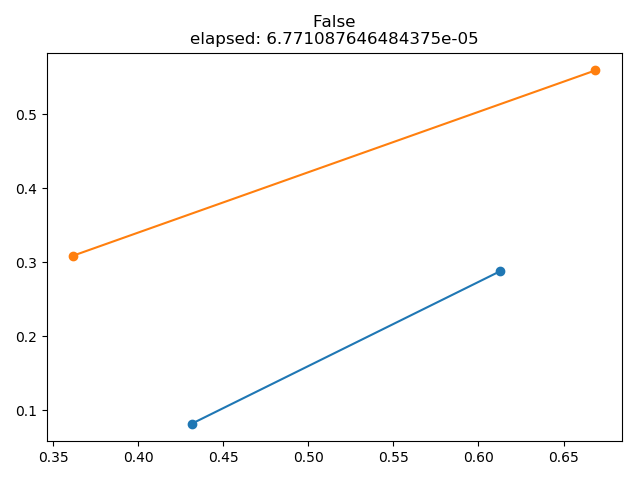
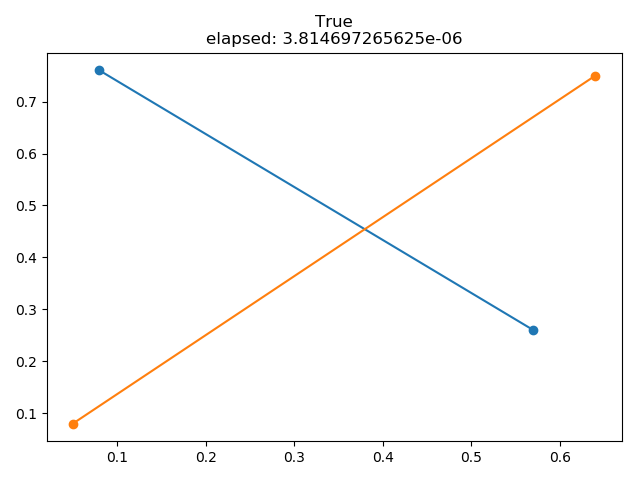
Seems to work.

diff --git a/intersect.py b/intersect.py
@@ -62,7 +62,7 @@ def line_vectors(ab):
     return ([ax, bx], [ay, by])
 
 def random_point():
-    return (np.random.random(), np.random.random())
+    return (round(np.random.random(), 2), round(np.random.random(), 2))
 
 def main():
     a = random_point()
